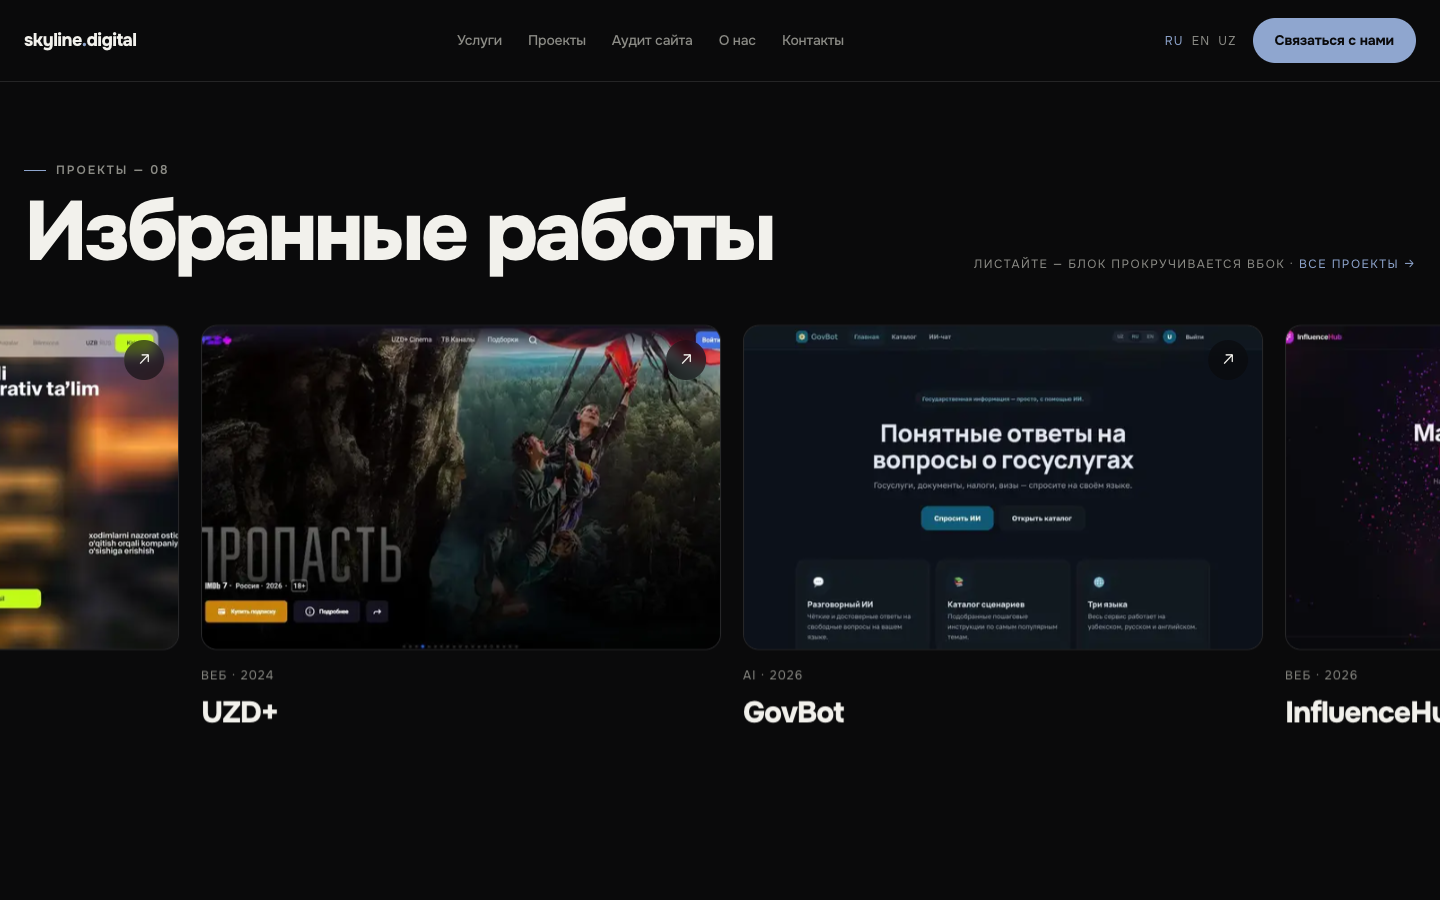
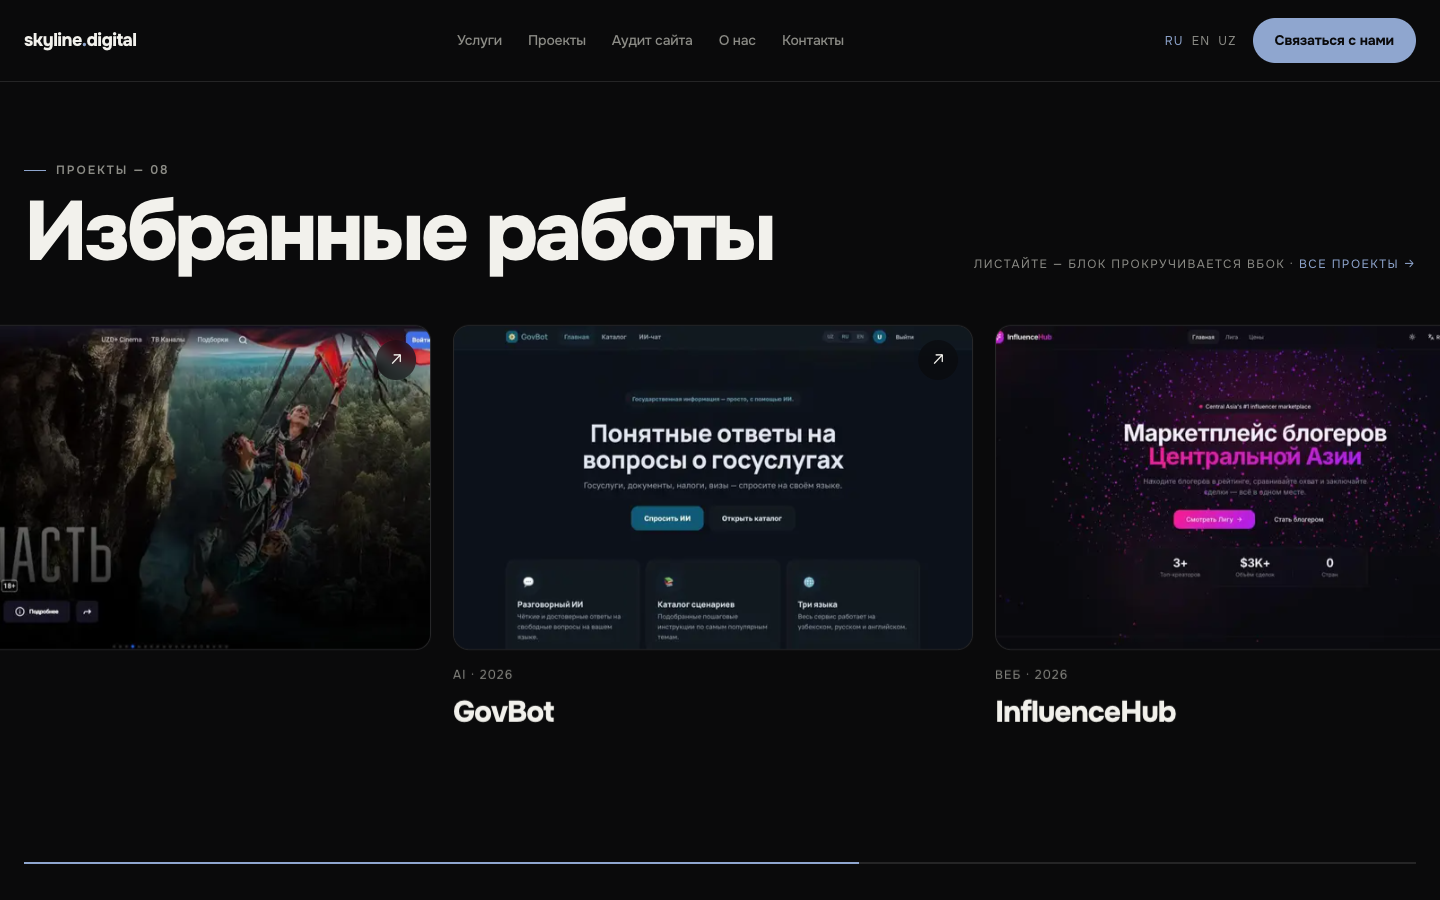
feat(site): Референс — полоса прогресса под лентой проектов (по эталону 165daf4)

diff --git a/public/variants/ref.css b/public/variants/ref.css
@@ -397,6 +397,28 @@
   }
 }
 
+/* Полоса прогресса под лентой (эталон: .r-hbar, коммит 165daf4) — только в закреплённом режиме. */
+[data-site="ref"] .r-hbar {
+  display: none;
+}
+@media (min-width: 900px) and (hover: hover) and (prefers-reduced-motion: no-preference) {
+  [data-site="ref"] .r-hsec[data-pin="on"] .r-hbar {
+    display: block;
+    position: absolute;
+    left: var(--r-gutter);
+    right: max(24px, env(safe-area-inset-right, 0px));
+    bottom: 36px;
+    height: 2px;
+    background: var(--r-line);
+  }
+  [data-site="ref"] .r-hsec[data-pin="on"] .r-hbar span {
+    display: block;
+    height: 100%;
+    width: calc(var(--p, 0) * 100%);
+    background: var(--r-acc);
+  }
+}
+
 /* ——— проекты ——— */
 [data-site="ref"] .r-pcard {
   flex: 0 0 auto;

diff --git a/src/components/site/chrome/ref/HorizontalPin.tsx b/src/components/site/chrome/ref/HorizontalPin.tsx
@@ -22,12 +22,15 @@ export function HorizontalPin({
   children,
   trackClassName = "",
   ariaLabel,
+  progressBar = false,
 }: {
   id: string;
   head: React.ReactNode;
   children: React.ReactNode;
   trackClassName?: string;
   ariaLabel: string;
+  /** Полоса прогресса под лентой (эталон: `.r-hbar`). */
+  progressBar?: boolean;
 }) {
   const secRef = useRef<HTMLElement>(null);
   const trackRef = useRef<HTMLDivElement>(null);
@@ -119,6 +122,11 @@ export function HorizontalPin({
         <div ref={trackRef} className={`r-htrack ${trackClassName}`.trim()}>
           {children}
         </div>
+        {progressBar && (
+          <div className="r-hbar" aria-hidden="true">
+            <span />
+          </div>
+        )}
       </div>
     </section>
   );

diff --git a/src/components/home/variants/ref/RefHome.tsx b/src/components/home/variants/ref/RefHome.tsx
@@ -86,6 +86,7 @@ export async function RefHome({ params }: HomeVariantProps) {
       <HorizontalPin
         id="r-work"
         ariaLabel={t("projectsTitle")}
+        progressBar
         head={
           <div className="r-hhead">
             <div>
